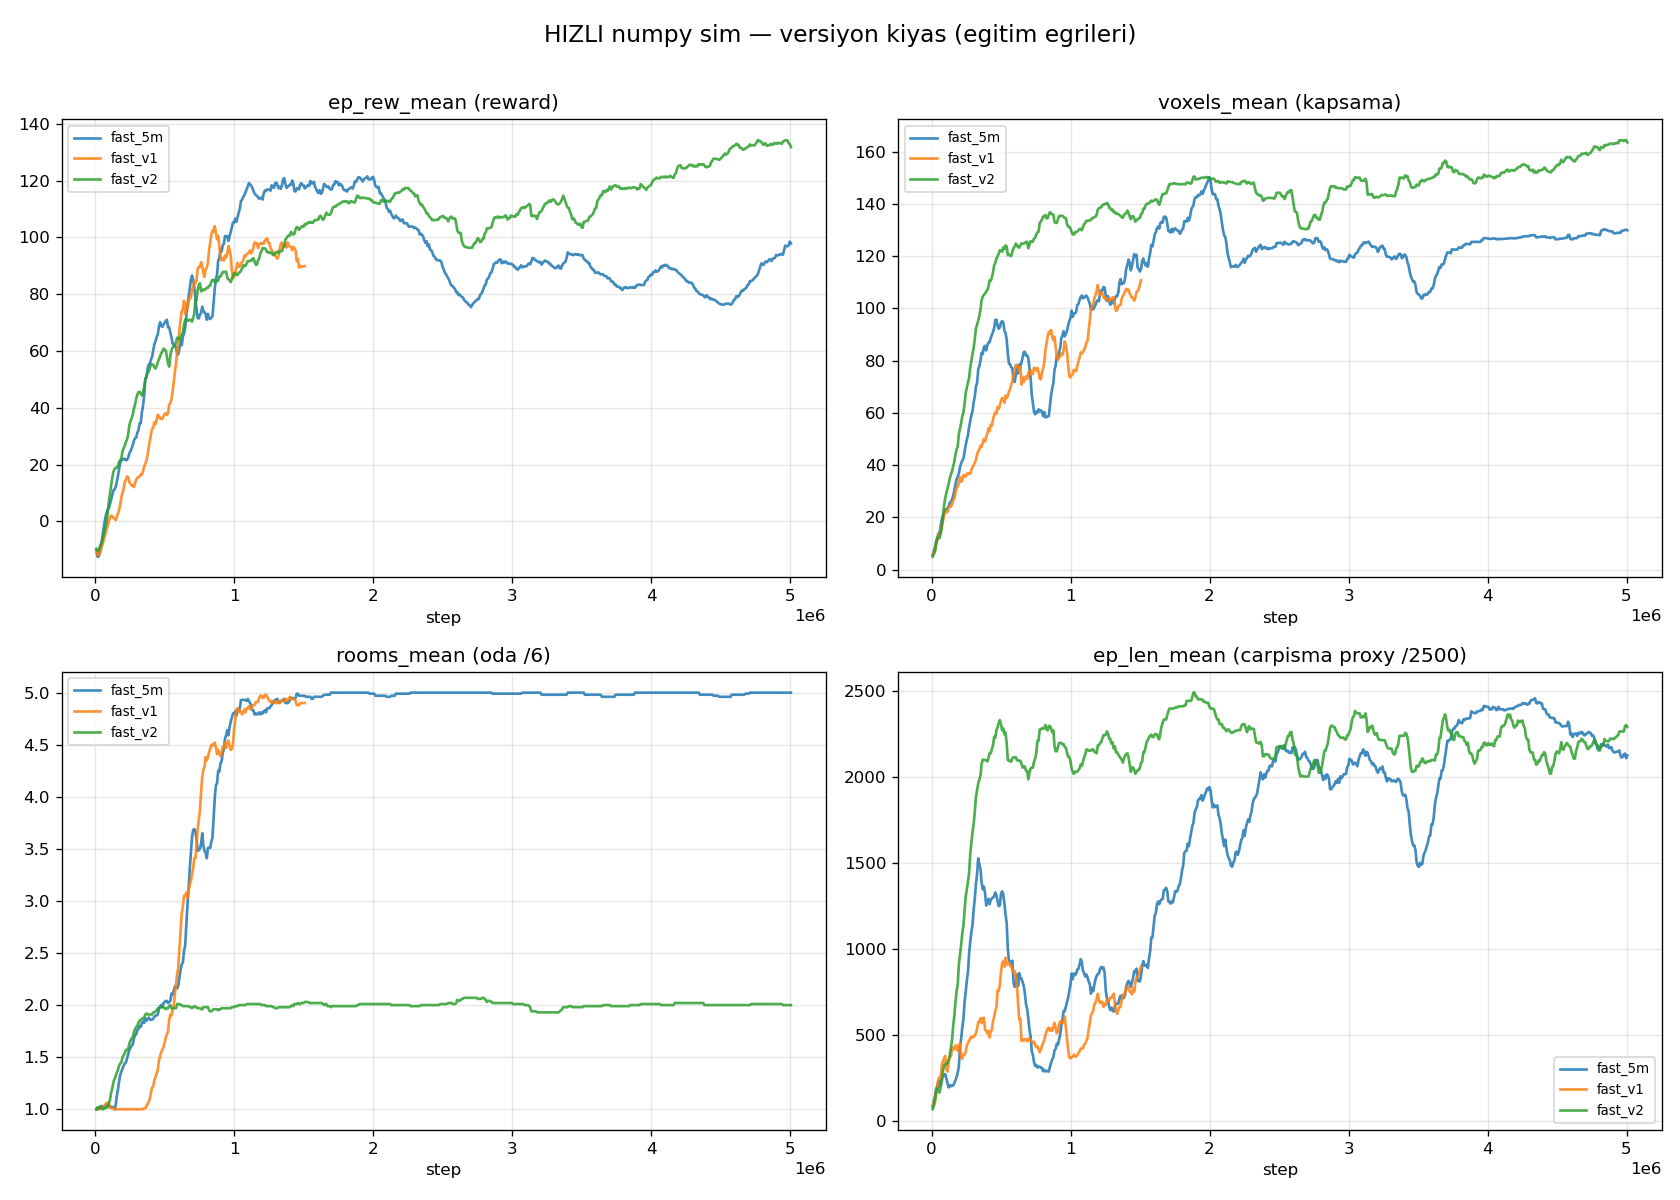
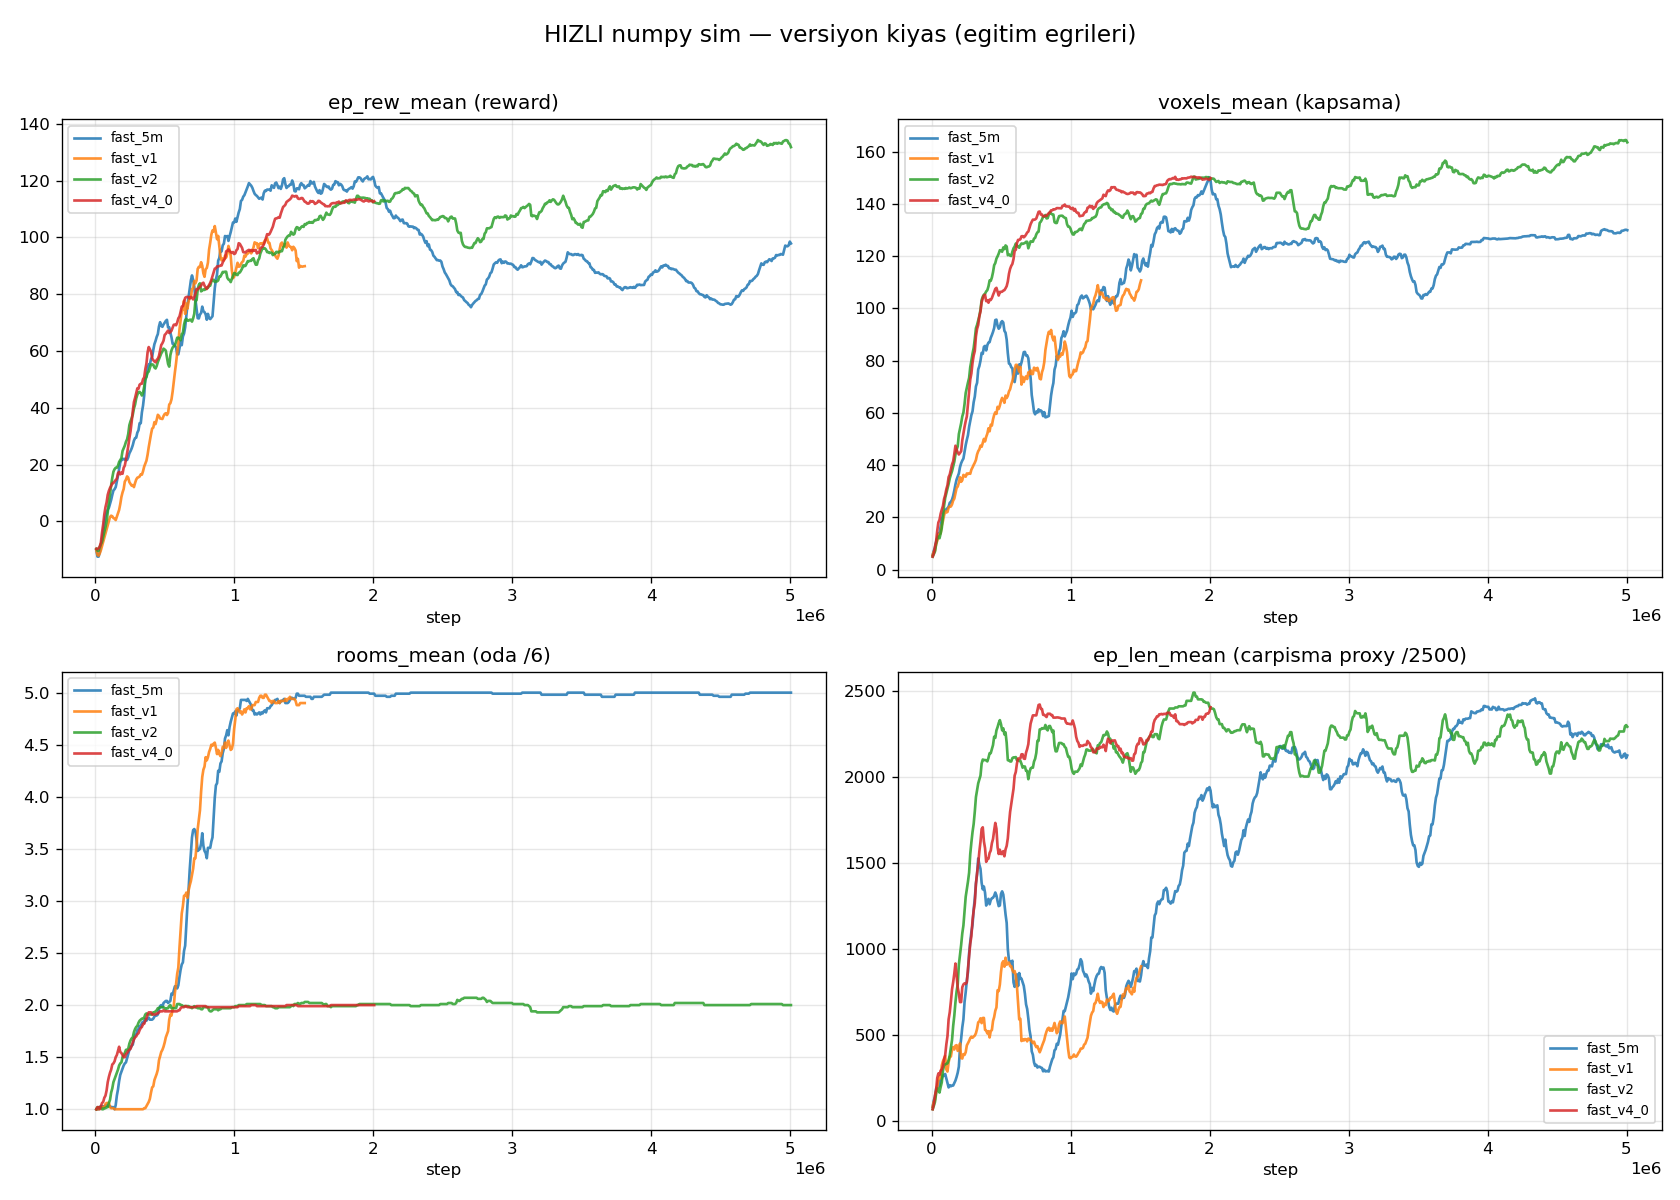
v4.0 baseline eval (carpisma %32, voxels 142, 2 oda) -> v4.1 (room_bonus 30)

diff --git a/docs/EVAL_fast_v4_0.md b/docs/EVAL_fast_v4_0.md
@@ -1,0 +1,16 @@
+# fast_v4_0 (numpy/Gymnasium sim) — 100 episode
+
+Model: `fast_drone_final.zip` | deterministic | hareketli engeller aktif | ~100x hizli sim
+
+| Metrik | Deger |
+|---|---|
+| Return | 101.7 ± 9.4 (min 77, max 121) |
+| Voxel / 1024 | 142.4 ± 5.8 (min 124, max 151) |
+| Oda / 6 | 2.0 ± 0.0 (min 2, max 2) |
+| Episode / 2500 | 2356.8 ± 278.9 (min 1282, max 2500) |
+| Carpisma orani | 32% (32/100) |
+| Birlesik kapsama | 179/1024 (17%) |
+
+![coverage](figures/eval_fast_v4_0_coverage.png)
+
+![traj](figures/eval_fast_v4_0_trajectories.png)
